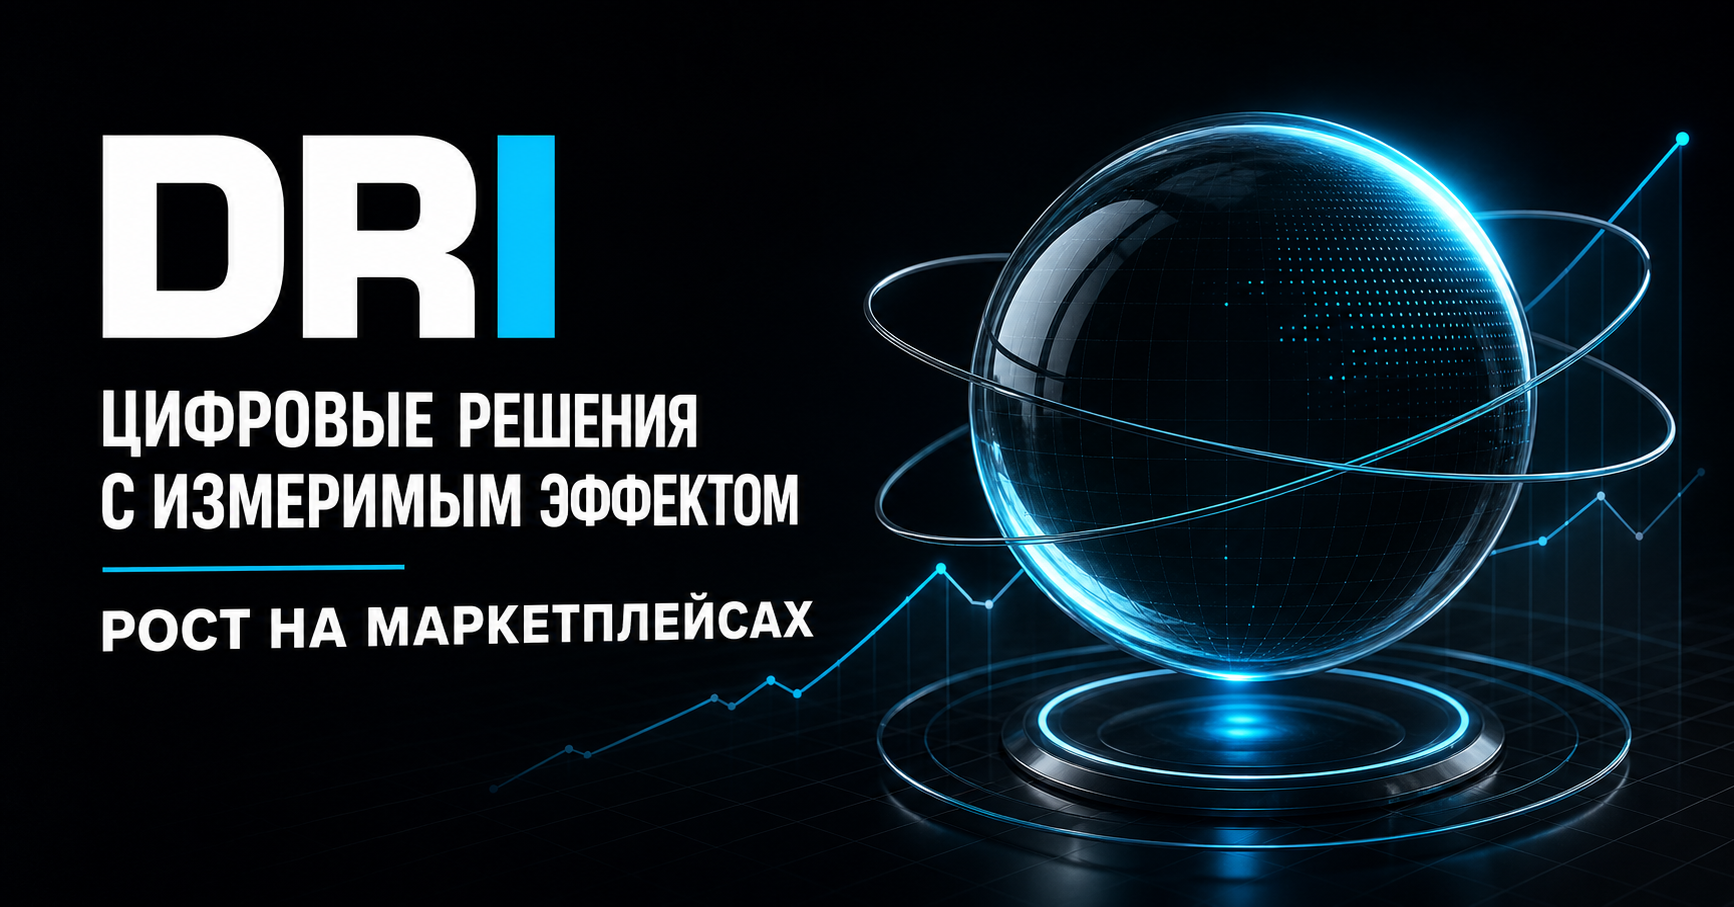
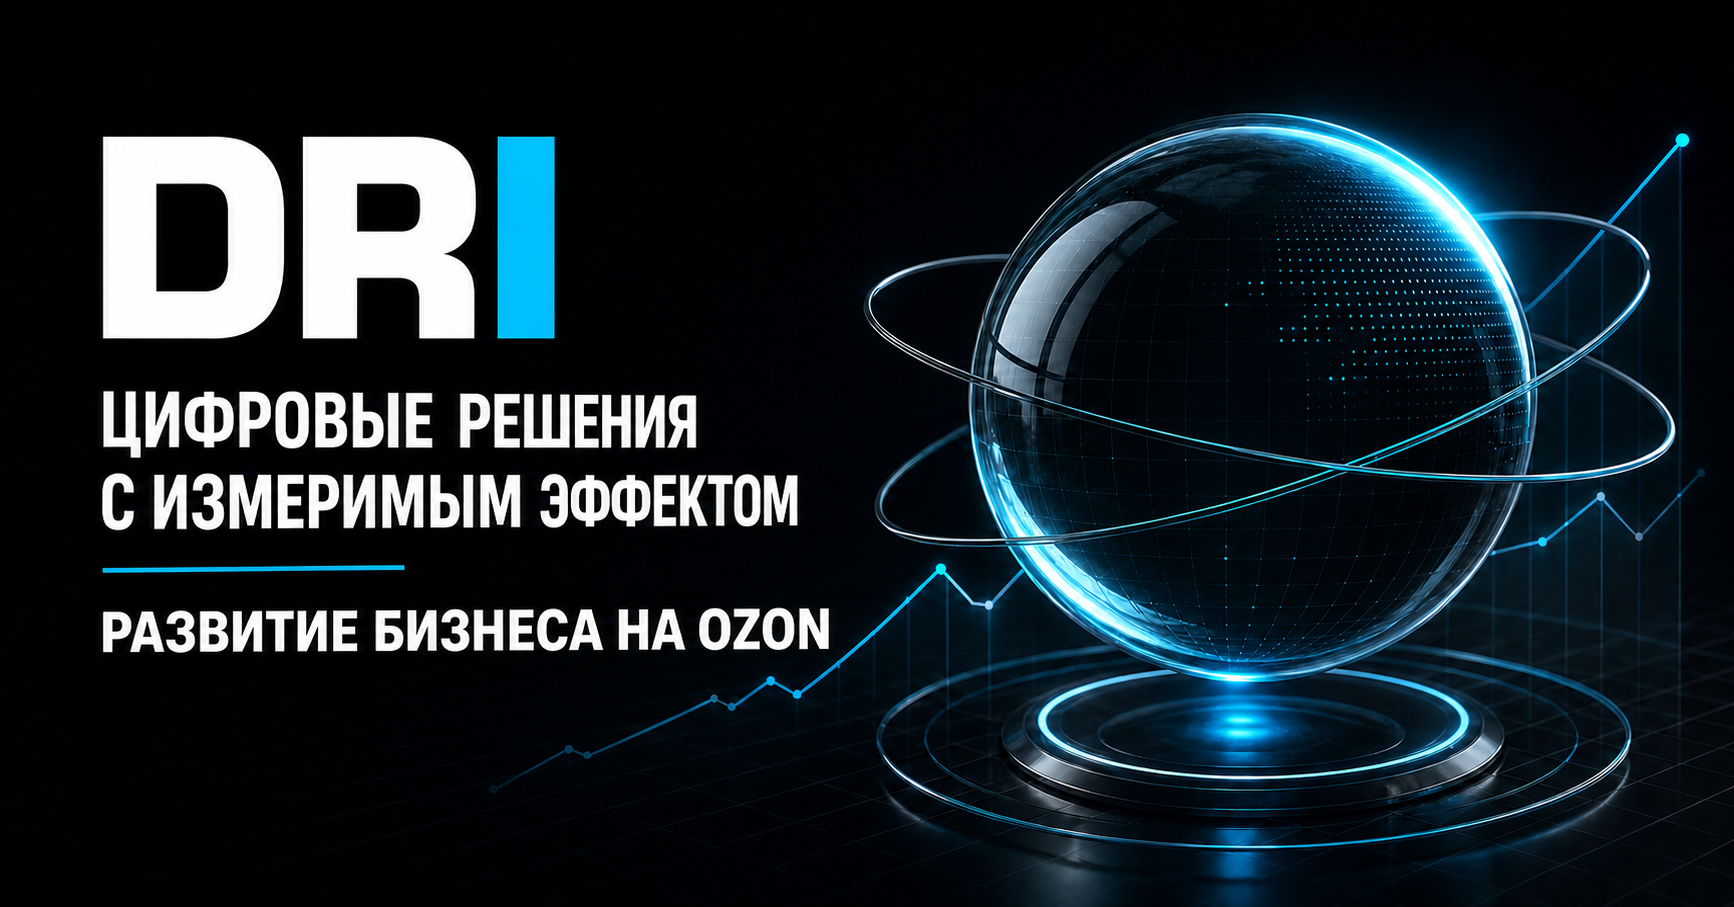
Fix counters mobile CTA and Ozon preview

diff --git a/app/page.tsx b/app/page.tsx
@@ -1,8 +1,8 @@
 "use client";
 
-import { useEffect, useRef, useState } from "react";
+import { useEffect, useState } from "react";
 import type { PointerEvent as ReactPointerEvent } from "react";
-import { motion, useInView } from "framer-motion";
+import { motion } from "framer-motion";
 import Image from "next/image";
 
 const publicBase = process.env.NEXT_PUBLIC_BASE_PATH ?? "";
@@ -109,32 +109,10 @@ function Counter({
   prefix?: string;
   decimals?: number;
 }) {
-  const ref = useRef<HTMLSpanElement>(null);
-  const visible = useInView(ref, { once: true, margin: "-60px" });
-  const [count, setCount] = useState(0);
-
-  useEffect(() => {
-    if (!visible) return;
-    const start = performance.now();
-    const duration = 900;
-    const factor = Math.pow(10, decimals);
-    let frame = 0;
-
-    const tick = (now: number) => {
-      const progress = Math.min((now - start) / duration, 1);
-      const eased = 1 - Math.pow(1 - progress, 3);
-      setCount(Math.round(value * factor * eased) / factor);
-      if (progress < 1) frame = requestAnimationFrame(tick);
-    };
-
-    frame = requestAnimationFrame(tick);
-    return () => cancelAnimationFrame(frame);
-  }, [decimals, value, visible]);
-
   return (
-    <span ref={ref}>
+    <span>
       {prefix}
-      {count.toLocaleString("ru-RU", {
+      {value.toLocaleString("ru-RU", {
         minimumFractionDigits: decimals,
         maximumFractionDigits: decimals,
       })}

diff --git a/app/layout.tsx b/app/layout.tsx
@@ -36,7 +36,7 @@ export const metadata: Metadata = {
     images: [
       {
         url: "https://likecimu98-sys.github.io/dri-growth-site/og.png",
-        width: 1746,
+        width: 1734,
         height: 907,
         alt: "DRI — цифровые решения с измеримым эффектом",
       },

diff --git a/app/globals.css b/app/globals.css
@@ -80,6 +80,7 @@ img {
   width: min(100%, var(--max));
   margin: 0 auto;
   padding: clamp(78px, 7vw, 112px) var(--page);
+  scroll-margin-top: 96px;
 }
 
 .loader {
@@ -1618,9 +1619,6 @@ footer {
     display: none;
   }
 
-  .floating-cta {
-    display: flex;
-  }
 }
 
 @media (prefers-reduced-motion: reduce) {
